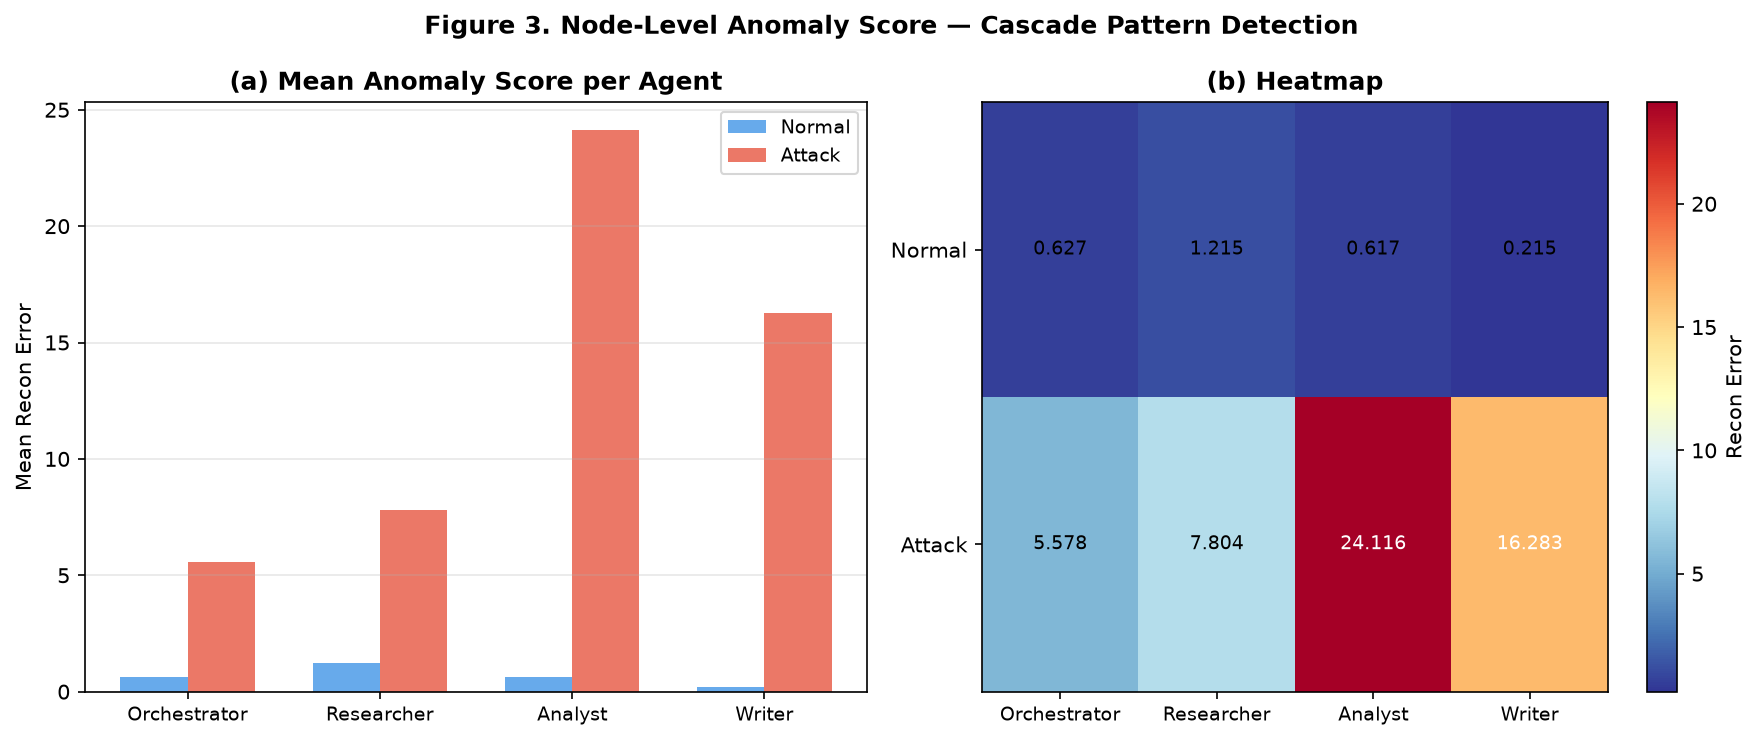
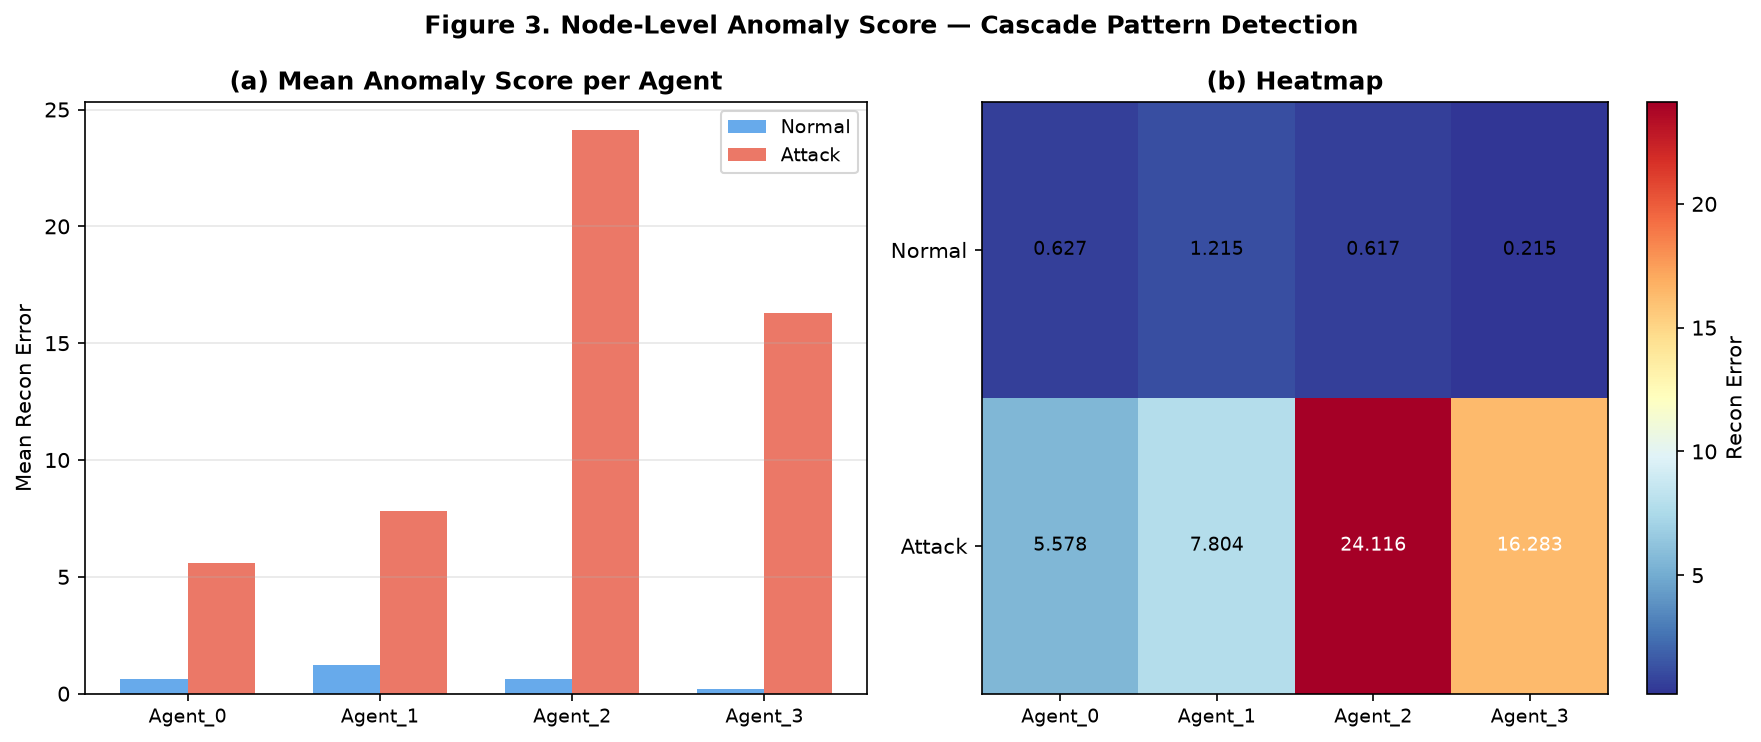
verify: enforce and document normal-only novelty detection for LightGAE/MLPAE
LightGAE and MLPAE are one-class novelty detectors, not classifiers: they must
fit only on normal sessions, with attack data/labels appearing solely at test
time. The code already did this correctly (train_lgae/train_mlpae only ever
received X_tr, scaler.fit only saw the train split, thresholds were percentiles
of train-only scores) -- this commit makes that guarantee explicit, verifiable,
and impossible to silently regress:

- Print "Learning setup: Normal-only novelty detection" plus per-split
  normal/attack counts (train/validation/test) at the start of every run, in
  both lgnn_experiment.py (headline) and feature_ablation.py.
- Add runtime assertions at each leakage-prone step: the train/val index
  permutation only covers normal-session indices, split sizes match the
  declared setup, scaler.n_samples_seen_ equals the training-normal count,
  and every theta/threshold percentile is computed over exactly n_tr scores.
  Any future refactor that leaks attack data into training now fails loudly
  with an AssertionError instead of silently corrupting results.

Verified end-to-end by re-running both scripts against the existing 50+50
cached real-Ollama sessions (no data collection needed): all seeds pass the
new assertions, and AUC/F1 are bit-identical to the previously documented
headline numbers, confirming zero behavioral regression. Regenerated
output/real_llm/lgnn_fig{1,3}_*.png and results_summary.json from that run;
[…]

diff --git a/experiments/real_llm/lgnn_experiment.py b/experiments/real_llm/lgnn_experiment.py
@@ -509,7 +509,17 @@ for i, nm in enumerate(AGENT_NAMES):
 # ══════════════════════════════════════════════════════════════════════════════
 print(f"\n[3/3] 멀티시드 학습 + 평가 (seeds={SEEDS})...")
 
-n_tr = int(N_NORMAL * 0.80)   # 40
+n_tr  = int(N_NORMAL * 0.80)   # 40
+n_val = N_NORMAL - n_tr        # 10
+
+# LightGAE/MLPAE are normal-only novelty detectors, not classifiers: they fit
+# purely on normal sessions and flag anything that reconstructs poorly. Attack
+# sessions/labels must never reach training, scaler fitting, or threshold
+# estimation -- they only appear at test time as held-out positives.
+print("\n  Learning setup: Normal-only novelty detection")
+print(f"    Train:      normal={n_tr:3d}  attack=0    (model.fit on normal-only, unsupervised)")
+print(f"    Validation: normal={n_val:3d}  attack=0    (held-out normal, threshold/scaler untouched by attack)")
+print(f"    Test:       normal={n_val:3d}  attack={N_ATTACK:3d}  (val-normal + attack -- only place attack data/labels appear)")
 
 
 def metrics(y, sc, pd):
@@ -533,12 +543,20 @@ for seed in SEEDS:
 
     # Split raw (unscaled) sessions first, then fit the scaler on the train
     # split only -- avoids leaking validation-session statistics into scaling.
+    # idx_n permutes indices 0..N_NORMAL-1 ONLY -- X_attack is never part of this
+    # pool, so it structurally cannot land in X_tr_raw/X_val_raw below.
     idx_n     = np.random.permutation(N_NORMAL)
+    assert set(idx_n.tolist()) == set(range(N_NORMAL)), \
+        "idx_n must be a permutation of normal-session indices only"
     Xn_sh_raw = X_normal[idx_n]
     X_tr_raw  = Xn_sh_raw[:n_tr]
     X_val_raw = Xn_sh_raw[n_tr:]
+    assert X_tr_raw.shape[0] == n_tr and X_val_raw.shape[0] == n_val, \
+        "normal train/val split sizes drifted from the declared learning setup"
 
     scaler   = StandardScaler().fit(X_tr_raw.reshape(len(X_tr_raw), -1))
+    assert scaler.n_samples_seen_ == n_tr, \
+        f"scaler must be fit on exactly the {n_tr} training-normal sessions, saw {scaler.n_samples_seen_}"
     X_tr_all = scaler.transform(X_tr_raw.reshape(len(X_tr_raw), -1)).reshape(-1, N_AGENTS, N_FEATS).astype(np.float32)
     X_val_all= scaler.transform(X_val_raw.reshape(len(X_val_raw), -1)).reshape(-1, N_AGENTS, N_FEATS).astype(np.float32)
     Xa_s_all = scaler.transform(X_attack.reshape(N_ATTACK, -1)).reshape(N_ATTACK, N_AGENTS, N_FEATS).astype(np.float32)
@@ -548,6 +566,7 @@ for seed in SEEDS:
     X_val = X_val_all[:, :, CORE_COLS]
     Xa_s  = Xa_s_all[:, :, CORE_COLS]
     X_te  = np.concatenate([X_val, Xa_s])
+    assert X_tr.shape[0] == n_tr, "X_tr (model.fit input) must contain exactly the training-normal sessions"
     # ground_truth_label = int(injection_enabled): X_val is drawn purely from the
     # no-injection pool and Xa_s purely from the injection-enabled pool (§4), so the
     # label below is fixed by pool membership -- never by inspecting response content
@@ -555,10 +574,15 @@ for seed in SEEDS:
     y_te  = np.array([0]*len(X_val) + [1]*N_ATTACK)
 
     # ── LightGAE ──────────────────────────────────────────────
+    # model.fit(X_normal_train): X_tr is normal-only (asserted above); Xa_s/attack
+    # labels never appear on the left of train_lgae/train_mlpae calls below, and
+    # theta_* thresholds are percentiles of tr_sc/tr_mlp -- scores of X_tr itself,
+    # never of X_te/Xa_s. Attack data only enters via X_te at scoring time.
     gae = LightGAE(in_dim=N_CORE, hid=16, emb=8)
     train_lgae(gae, X_tr, ADJ, epochs=160, lr=1e-3, bs=16)
     sc_gae, node_sc = gae.score(torch.FloatTensor(X_te), ADJ)
     tr_sc, _        = gae.score(torch.FloatTensor(X_tr), ADJ)
+    assert len(tr_sc) == n_tr, "threshold percentile must be computed over training-normal scores only"
     theta_gae       = float(np.percentile(tr_sc, 95))
     r_gae = metrics(y_te, sc_gae, (sc_gae > theta_gae).astype(int))
 
@@ -567,6 +591,7 @@ for seed in SEEDS:
     train_mlpae(mlp_m, X_tr, epochs=160, lr=1e-3, bs=16)
     sc_mlp, _  = mlp_m.score(torch.FloatTensor(X_te))
     tr_mlp, _  = mlp_m.score(torch.FloatTensor(X_tr))
+    assert len(tr_mlp) == n_tr, "threshold percentile must be computed over training-normal scores only"
     theta_mlp  = float(np.percentile(tr_mlp, 95))
     r_mlp = metrics(y_te, sc_mlp, (sc_mlp > theta_mlp).astype(int))
 
@@ -574,6 +599,7 @@ for seed in SEEDS:
     flat_tr = X_tr.reshape(len(X_tr), -1)
     flat_te = X_te.reshape(len(X_te), -1)
     zsc     = StandardScaler().fit(flat_tr)
+    assert zsc.n_samples_seen_ == n_tr, "Z-score scaler must be fit on training-normal sessions only"
     zte     = np.linalg.norm(zsc.transform(flat_te), axis=1)
     ztr_s   = np.linalg.norm(zsc.transform(flat_tr), axis=1)
     z_th    = float(np.percentile(ztr_s, 95))

diff --git a/experiments/real_llm/feature_ablation.py b/experiments/real_llm/feature_ablation.py
@@ -143,10 +143,15 @@ FEATURE_SETS = {
 
 SEEDS = [42, 0, 1, 7, 123]
 n_tr  = int(N_NORMAL * 0.80)   # 40
+n_val = N_NORMAL - n_tr         # 10
 
 print("="*70)
 print("  Feature-Set Ablation -- Real-LLM 4-Agent MAS (Ollama llama3.2)")
 print("="*70)
+print("\n  Learning setup: Normal-only novelty detection")
+print(f"    Train:      normal={n_tr:3d}  attack=0    (model.fit on normal-only, unsupervised)")
+print(f"    Validation: normal={n_val:3d}  attack=0    (held-out normal, threshold/scaler untouched by attack)")
+print(f"    Test:       normal={n_val:3d}  attack={N_ATTACK:3d}  (val-normal + attack -- only place attack data/labels appear)")
 
 results = {name: {"AUC": [], "F1": []} for name in FEATURE_SETS}
 
@@ -154,11 +159,14 @@ for s in SEEDS:
     torch.manual_seed(s); np.random.seed(s)
 
     idx_n     = np.random.permutation(N_NORMAL)
+    assert set(idx_n.tolist()) == set(range(N_NORMAL))
     Xn_sh_raw = X_normal[idx_n]
     X_tr_raw  = Xn_sh_raw[:n_tr]
     X_val_raw = Xn_sh_raw[n_tr:]
+    assert X_tr_raw.shape[0] == n_tr and X_val_raw.shape[0] == n_val
 
     scaler   = StandardScaler().fit(X_tr_raw.reshape(len(X_tr_raw), -1))
+    assert scaler.n_samples_seen_ == n_tr, "scaler must be fit on training-normal sessions only"
     X_tr_all = scaler.transform(X_tr_raw.reshape(len(X_tr_raw), -1)).reshape(-1, N_AGENTS, N_FEATS).astype(np.float32)
     X_val_all= scaler.transform(X_val_raw.reshape(len(X_val_raw), -1)).reshape(-1, N_AGENTS, N_FEATS).astype(np.float32)
     Xa_all   = scaler.transform(X_attack.reshape(N_ATTACK, -1)).reshape(N_ATTACK, N_AGENTS, N_FEATS).astype(np.float32)
@@ -169,12 +177,14 @@ for s in SEEDS:
     for name, cols in FEATURE_SETS.items():
         X_tr = X_tr_all[:, :, cols]
         X_te = X_te_all[:, :, cols]
+        assert X_tr.shape[0] == n_tr, "model.fit input (X_tr) must be normal-only training sessions"
 
         model = LightGAE(in_dim=len(cols), hid=16, emb=8)
         train_gae(model, X_tr, ADJ, epochs=160, lr=1e-3, bs=16)
 
         sc_test = model.score(torch.FloatTensor(X_te), ADJ)
         sc_tr   = model.score(torch.FloatTensor(X_tr), ADJ)
+        assert len(sc_tr) == n_tr, "threshold percentile must be computed over training-normal scores only"
         theta   = float(np.percentile(sc_tr, 95))
         pred    = (sc_test > theta).astype(int)
 

diff --git a/README.md b/README.md
@@ -252,6 +252,30 @@ Input  X ∈ R^{B × |V| × 2}   (batch × agents × features)
 > 잘못된 방식이었다 — 이번에 headline과 동일한 `int(injection_enabled)` 기준으로 수정했다
 > (수정 내역은 파일 상단 주석 참고).
 
+> **학습 방식: Normal-only novelty detection.** LightGAE/MLPAE는 분류기가 아니라 정상 세션만으로
+> 학습하는 novelty detector다 — 공격 세션·공격 라벨은 학습, scaler fitting, threshold 추정
+> 어디에도 들어가지 않는다. 매 seed마다:
+>
+> | Split | Normal | Attack | 용도 |
+> |-------|:---:|:---:|------|
+> | Train | 40 | 0 | `model.fit`(비지도 학습) — `train_lgae`/`train_mlpae`에 attack 데이터는 인자로도 전달되지 않음 |
+> | Validation | 10 | 0 | held-out 정상 세션. scaler/threshold 추정에 attack 데이터가 섞이지 않았는지 확인하는 용도 |
+> | Test | 10 | 50 | val-normal + attack. 이 지점에서만 attack 데이터·라벨이 등장(AUC/F1 평가용) |
+>
+> `StandardScaler`는 train(40)에만 `fit`되고(`scaler.n_samples_seen_ == 40` 런타임 assert로 검증),
+> 이상 탐지 threshold(θ, 95th percentile)도 train 세션의 재구성 오차에서만 계산한다(`len(tr_sc) == 40`
+> assert). 코드에는 세션 인덱스 permutation이 정상 세션 풀(`N_NORMAL`)만 포함하는지, split 크기가
+> 어긋나지 않는지도 매 seed마다 assert로 검증한다 — 위반 시 즉시 `AssertionError`로 실행이 멈춘다.
+> 실행 로그에는 `Learning setup: Normal-only novelty detection`과 위 표와 동일한 train/val/test
+> normal·attack 개수가 매 실행마다 출력된다(2026-07-20, 아래 예시로 실행 검증 완료).
+>
+> ```
+> Learning setup: Normal-only novelty detection
+>   Train:      normal= 40  attack=0    (model.fit on normal-only, unsupervised)
+>   Validation: normal= 10  attack=0    (held-out normal, threshold/scaler untouched by attack)
+>   Test:       normal= 10  attack= 50  (val-normal + attack -- only place attack data/labels appear)
+> ```
+
 #### 파이프라인 구조
 
 ```